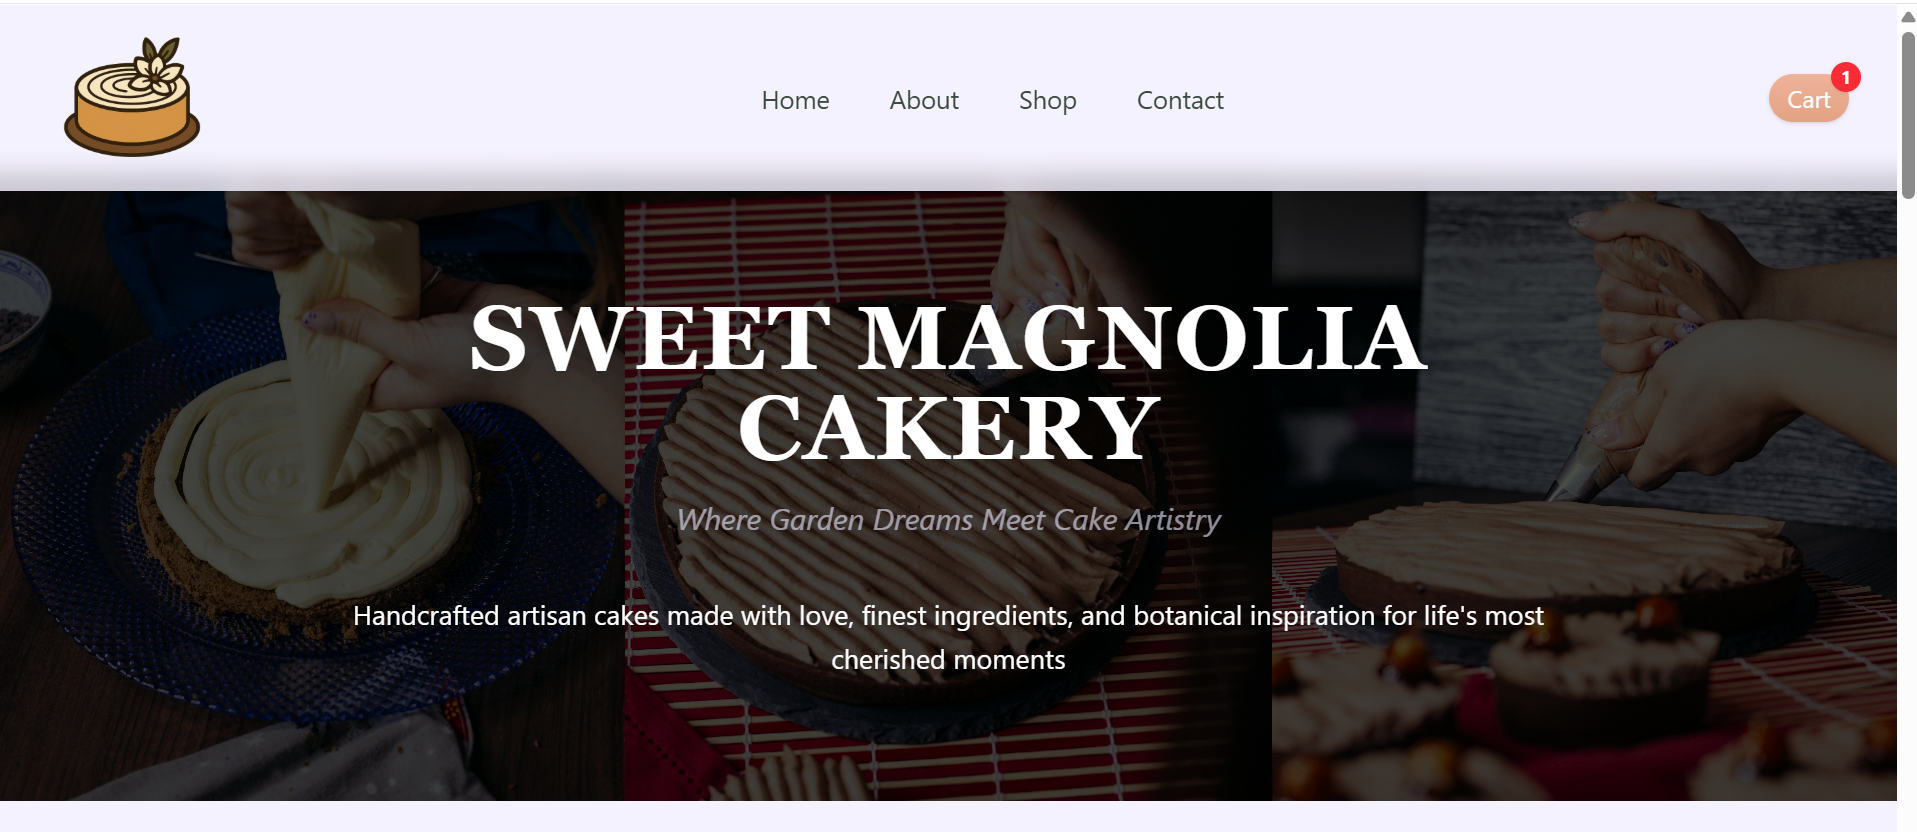
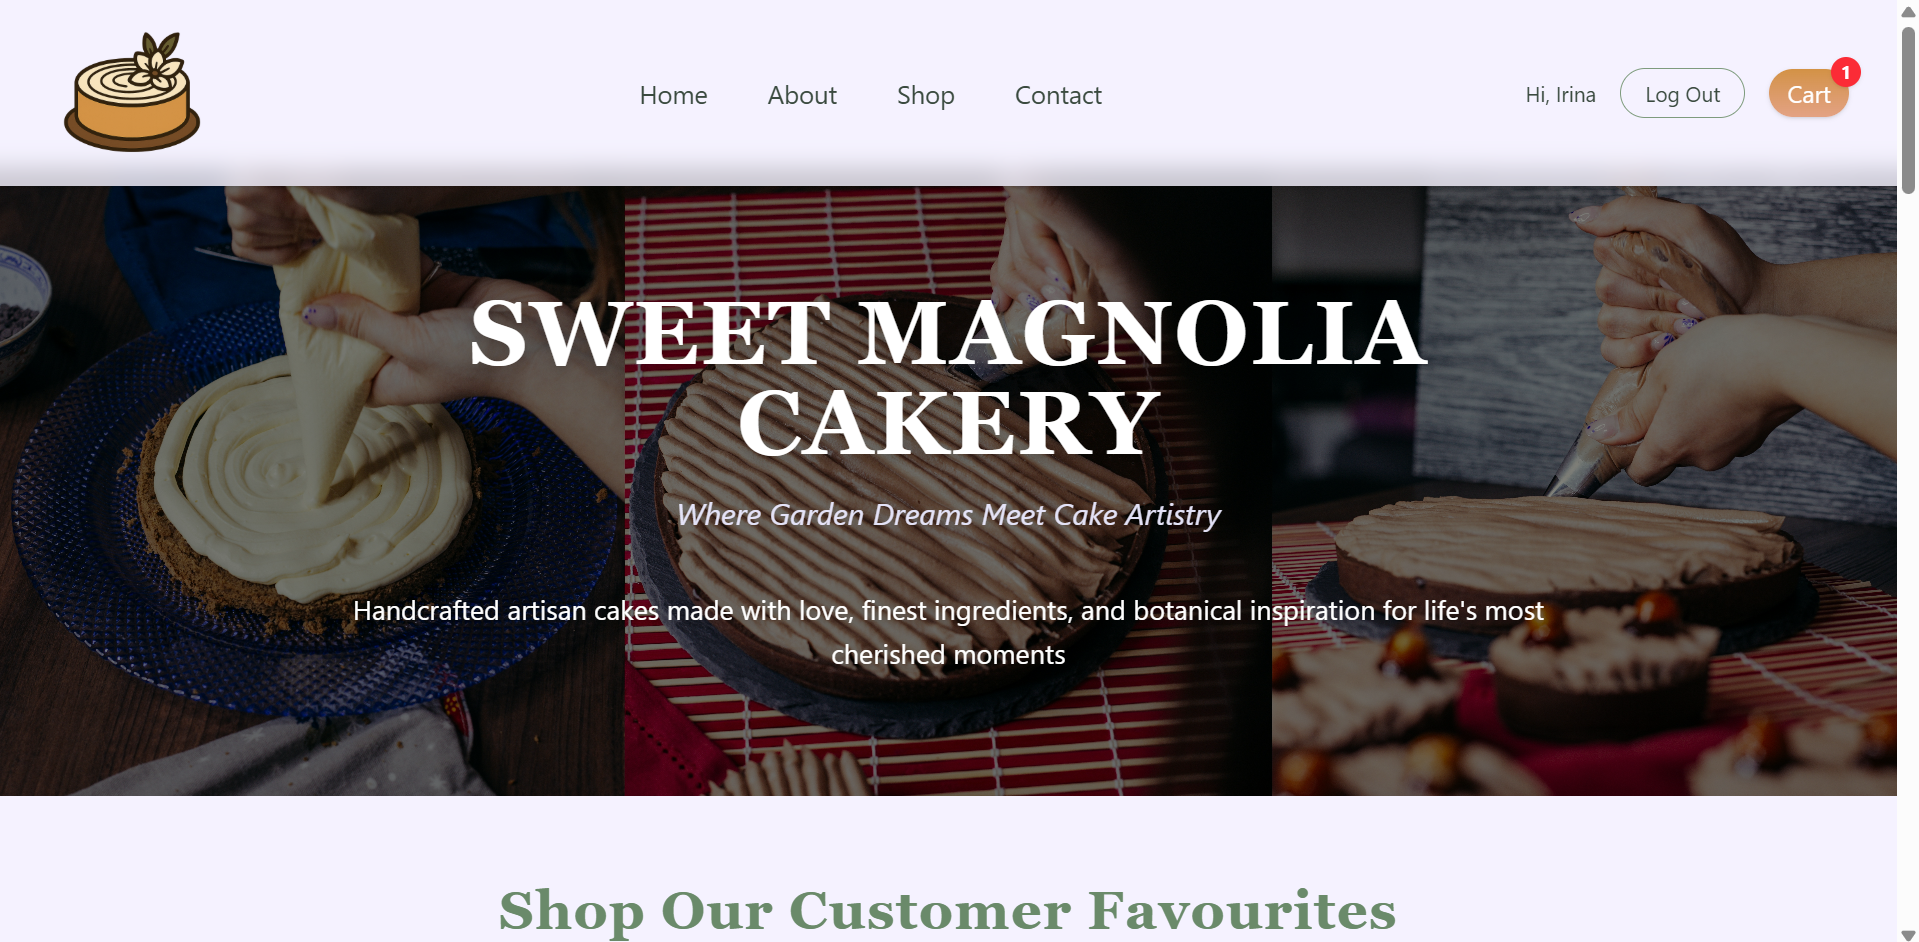
Style refactoring, readme updated

diff --git a/client/src/components/IntroSection.tsx b/client/src/components/IntroSection.tsx
@@ -33,7 +33,7 @@ export default function IntroSection() {
   className="relative bg-[url('/cakes/image.jpg')] bg-cover bg-center py-16 sm:py-20"
 >
   {/* Dark overlay for better text contrast */}
-  <div className="absolute inset-0 bg-black/70" />
+  <div className="absolute inset-0 bg-black/50" />
 
 
 

diff --git a/README.md b/README.md
@@ -3,7 +3,7 @@
 A full-stack e-commerce web application for a botanical-inspired cake shop.  
 Built with **React, TypeScript, Node.js, Express, and TailwindCSS**.  
 
-This project was developed as part of my software development studies to demonstrate skills in **frontend design, backend API development, and user experience design**.  
+This project was developed as part of my software development studies to demonstrate skills in **frontend design, backend API development, database, and user experience design**.  
 
 ---
 
@@ -13,12 +13,15 @@ This project was developed as part of my software development studies to demonst
 - Shop page – Browse cakes in a responsive grid layout.  
 - Cake details – Each cake includes image, description, size options, and add-to-cart functionality.  
 - Cart page – Add, remove, and update cake quantities with subtotal and total cost calculation.  
-- Favourites section – Save cakes to favourites for quick access.  
+- Favourites section – View the most popular cakes on the main page and add them to the cart directly for quick access.
 - Responsive design – Optimised for desktop, tablet, and mobile.  
 - Custom styling – Botanical colour palette (sage green, peach, cream) with serif + sans-serif typography.  
+- User authentication with Auth0 (login, signup, logout). 
 
 ### Backend
-- Express API that serves cakes data from a hardcoded array.  
+- Express API that serves cakes data from a database.  
+- Database schema managed with **Knex migrations**.  
+- Initial cake data populated using **Knex seeds**.  
 - Separation of concerns – clear routes for cakes and cart.  
 
 ### Other
@@ -29,16 +32,18 @@ This project was developed as part of my software development studies to demonst
 **Frontend:**  
 - React + TypeScript  
 - React Router  
-- TailwindCSS  
+- TailwindCSS
+- Auth0 (user authentication) 
 
 **Backend:**  
-- Node.js + Express (no database, using in-memory data)  
+- Node.js + Express
+- SQLite + Knex (database with migrations and seeds)    
 
 **Other Tools:**  
 - Vite (frontend build tool) 
 
 ---
-## 🚀 Getting Started
+## Getting Started
 
 ### Prerequisites
 Make sure you have installed:
@@ -79,6 +84,7 @@ sweet-magnolia-cakery/
 │   └── index.html         # Root HTML file
 │
 ├── server/                # Backend Express app
+│   ├── db/                # Database setup (Knex migrations and seeds)
 │   ├── src/
 │   │   ├── routes/        # API endpoints
 │   │   │   └── cakes.ts   # Cakes route
@@ -93,7 +99,7 @@ sweet-magnolia-cakery/
 ---
 ## Development Notes
 
-- Backend serves cake data from an array (no database used).  
+- Backend serves cake data from a database (managed with Knex migrations and seeds).
 - Cart functionality is managed on the frontend with React Context.  
 - Shipping is currently mocked (set to free).  
 
@@ -101,11 +107,11 @@ sweet-magnolia-cakery/
 
 ## Future Enhancements
 
-- Connect a real database (SQLite/PostgreSQL).  
 - Add order checkout and payment integration (e.g., Stripe).  
 - Create an admin dashboard to add cakes dynamically.  
 - Add reviews and ratings.  
-- Deploy backend to a cloud host (e.g., Render/Heroku).  
+
+
 
 ---
 
@@ -127,10 +133,13 @@ Key learning objectives:
 ## Screenshots
 
 ### Main Page
-![Cake Details](./client/public/screenshots/main.png)
+![Main Page](./client/public/screenshots/main.png)
 
 ### Shop Page
 ![Shop Page](./client/public/screenshots/shop-page.png)
+
+### Cake Details Page
+![Cake Details Page](./client/public/screenshots/cake-details.png)
 
 ### Cart Page
 ![Cart Page](./client/public/screenshots/cart.png)
